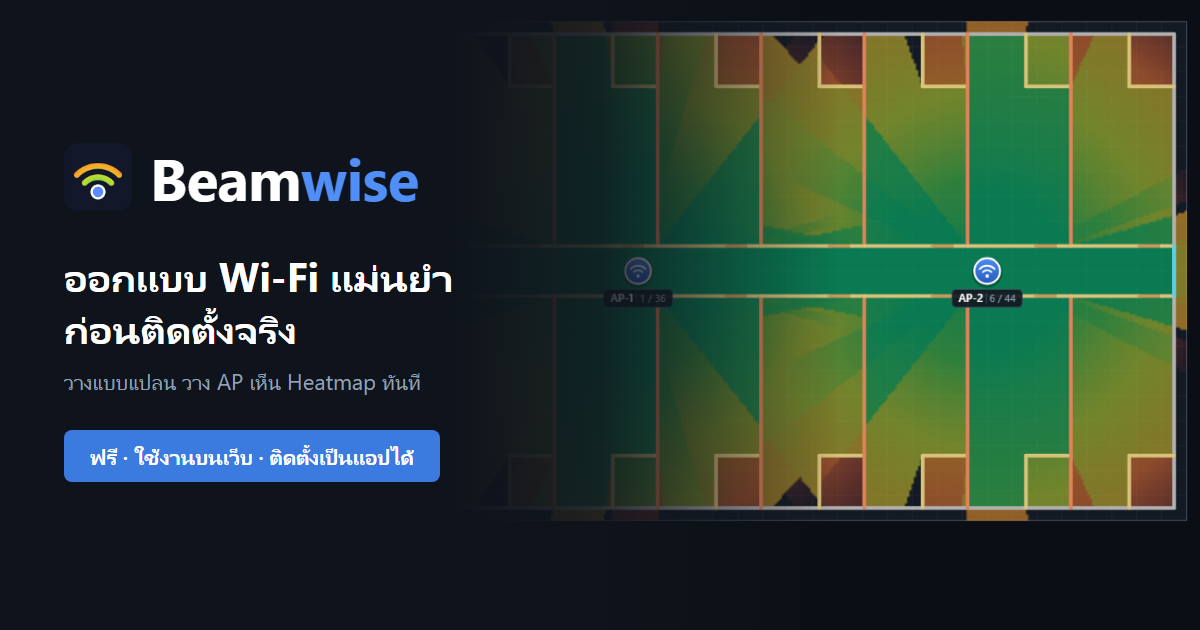
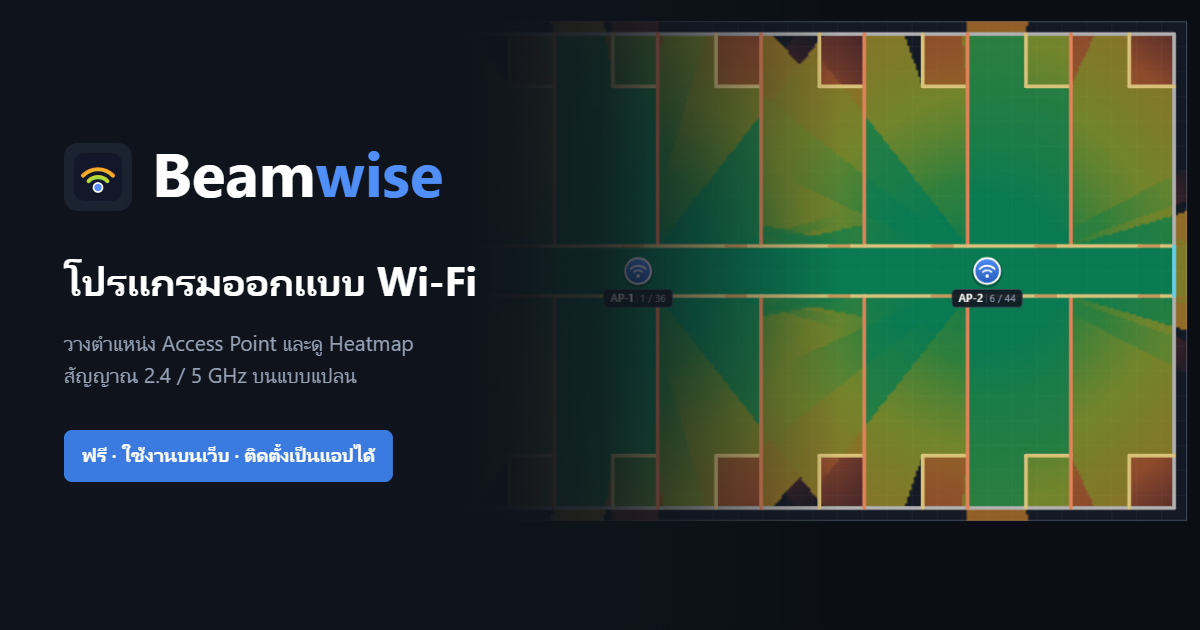
Drop the marketing tagline from the title, link preview and README
Tab and link-preview titles now read "Beamwise — Wi-Fi planner" in Thai,
and the preview image shows a plain description instead of the slogan.

Changed region(s): [[0.0308, 0.4222, 0.4008, 0.6333], [0.0617, 0.2413, 0.37, 0.3317], [0.0617, 0.6635, 0.37, 0.7841]]

diff --git a/index.html b/index.html
@@ -3,14 +3,14 @@
 <head>
   <meta charset="utf-8">
   <meta name="viewport" content="width=device-width, initial-scale=1, viewport-fit=cover">
-  <title>Beamwise — ออกแบบ Wi-Fi แม่นยำ ก่อนติดตั้งจริง</title>
+  <title>Beamwise — โปรแกรมออกแบบ Wi-Fi</title>
   <meta name="description" content="วาง Access Point บนแบบแปลน ดู Heatmap สัญญาณ Wi-Fi 2.4/5 GHz ทันที ฟรี ใช้งานบนเว็บได้เลย สำหรับช่างติดตั้ง ร้านไอที และเจ้าของหอพัก — Free predictive Wi-Fi planner.">
   <meta name="theme-color" content="#161c26">
   <meta name="color-scheme" content="dark light">
   <script>try{document.documentElement.dataset.theme=localStorage.getItem("wpth-theme")==="light"?"light":"dark"}catch(e){document.documentElement.dataset.theme="dark"}</script>
 
   <meta property="og:type" content="website">
-  <meta property="og:title" content="Beamwise — ออกแบบ Wi-Fi แม่นยำ ก่อนติดตั้งจริง">
+  <meta property="og:title" content="Beamwise — โปรแกรมออกแบบ Wi-Fi">
   <meta property="og:description" content="วาง AP บนแบบแปลน ดูสัญญาณ Wi-Fi ทันที ฟรีบนเว็บ ไม่ต้องติดตั้ง">
   <meta property="og:image" content="https://natthaphatbank.github.io/beamwise/og-image.png">
   <meta property="og:url" content="https://natthaphatbank.github.io/beamwise/">

diff --git a/README.md b/README.md
@@ -1,6 +1,6 @@
 # Beamwise
 
-**See your Wi-Fi before you install it.** · ออกแบบ Wi-Fi แม่นยำ ก่อนติดตั้งจริง
+Wi-Fi planning in the browser · โปรแกรมออกแบบ Wi-Fi บนเว็บ
 
 **Try it / install it:** https://natthaphatbank.github.io/beamwise/
 
